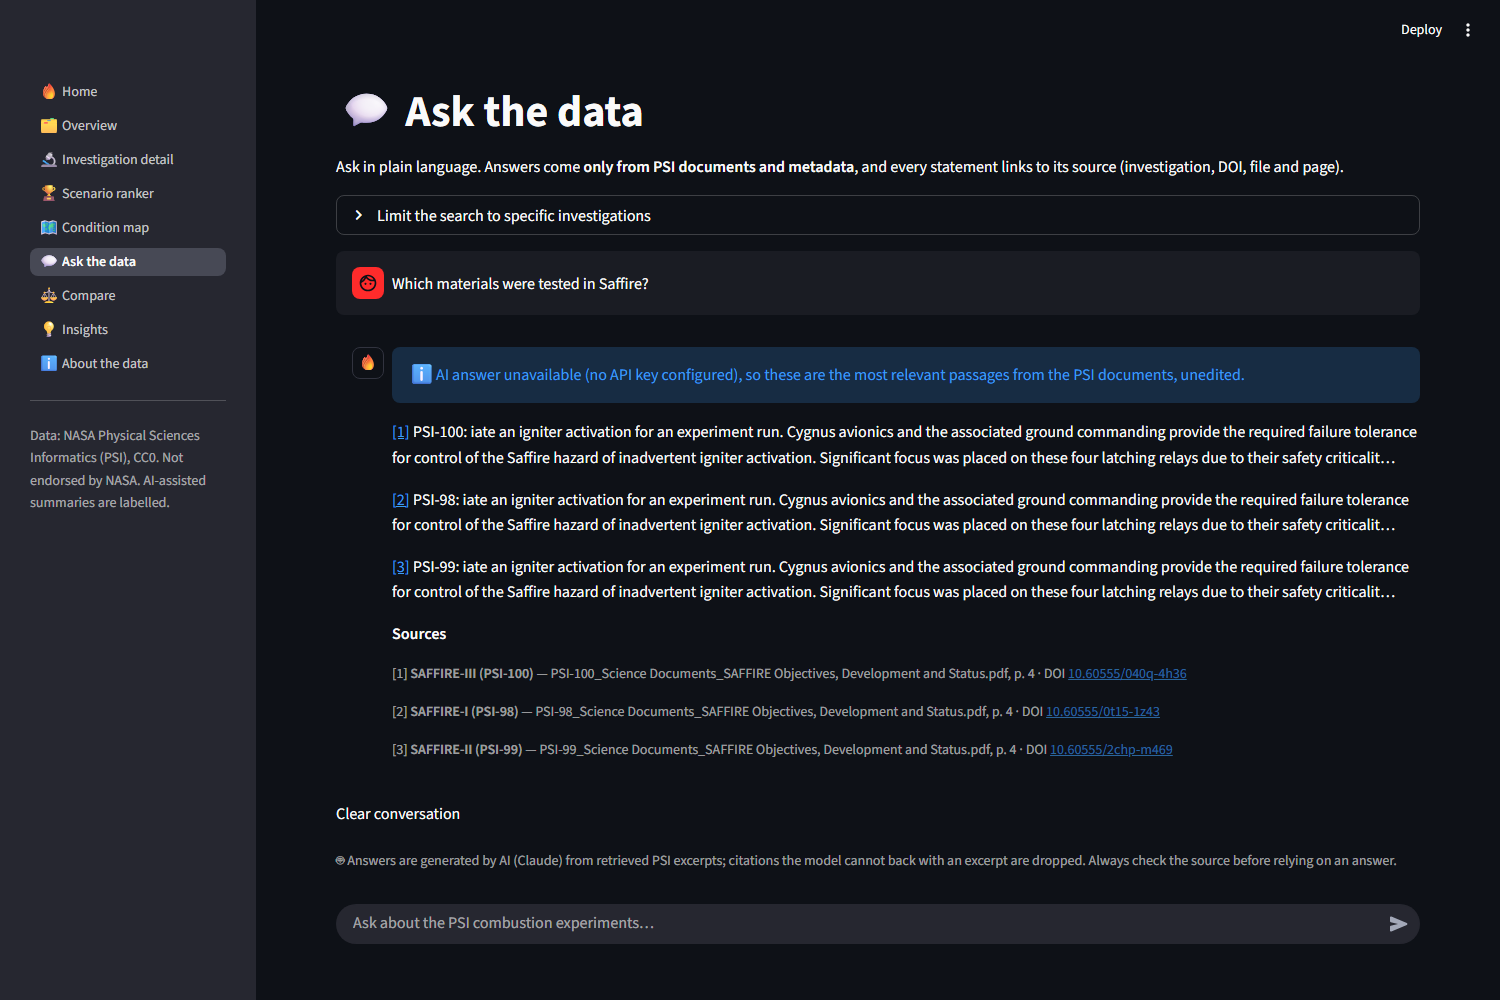
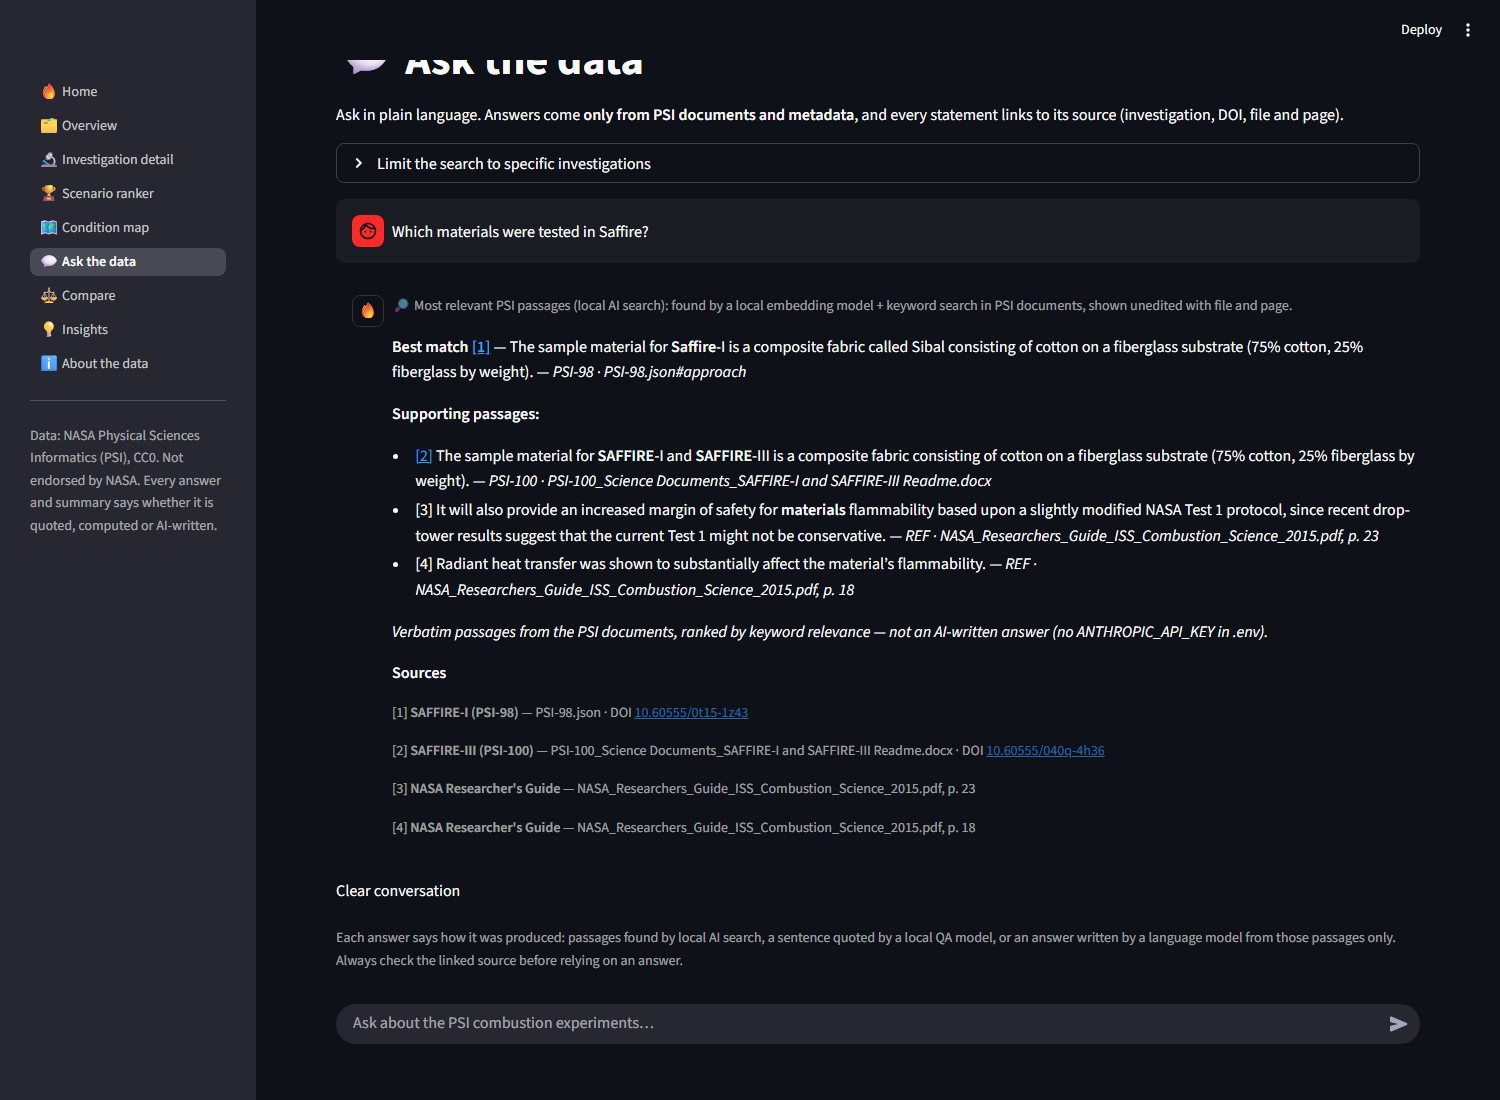
pc3: honest provenance labels on every AI-related text
- Ask: label per ask() mode (gemini / llm / extractive / no-llm) from data.ANSWER_LABELS;
  no-llm says 'Most relevant PSI passages (local AI search)', never 'generated'; the blue
  'AI answer unavailable' box and the fixed 'generated by AI (Claude)' footer are gone
- Detail / Compare: rule-built profiles (generated.by 'rules (no LLM)') are labelled
  'Summary from PSI metadata (quoted)'; only LLM-written profiles get an AI label
- Insights: caption from insights.json generated.by/how (rules -> computed + quoted)
- About disclosure and sidebar describe what actually runs
Tests: label for each mode, rule-based profile not labelled AI.

Closes #16

diff --git a/app/views/about.py b/app/views/about.py
@@ -78,14 +78,25 @@ if gaps:
 
 # ---------------------------------------------------------------- AI use
 st.subheader("How AI is used (disclosure)")
+_prof = data.profile("PSI-26")
+_summ = ("built by rules: the summary quotes the PSI objective/approach and the findings are sentences quoted "
+         "from PSI documents (no AI-written text)" if _prof and data.written_by_rules(_prof.get("generated"))
+         else "written by a language model from PSI documents and labelled as AI-written, with sources")
+_ins = data.insights()
+_ins_txt = ("computed from the PSI tables and backed by quoted sentences (no AI-written text)"
+            if isinstance(_ins, dict) and data.written_by_rules(_ins.get("generated"))
+            else "labelled with how they were produced")
 st.markdown(
-    "- **Scenario ranking** is a transparent weighted score computed from the data — no AI, fully reproducible.\n"
-    "- **Ask the data** retrieves passages from the PSI documents and metadata; a large language model "
-    "(Anthropic Claude) writes the answer only from those passages and must cite them. Citations it cannot "
-    "back with a retrieved passage are removed. Without an API key the page shows the passages themselves.\n"
-    "- **Investigation summaries and findings** (when present) are generated the same way, cached, and "
-    "labelled as AI-generated with their sources.\n"
+    "- **Scenario ranking** and the **condition map** are deterministic calculations on the PSI tables — "
+    "no AI, fully reproducible.\n"
+    "- **Ask the data** finds passages with local AI search (a sentence-embedding model + keyword search). "
+    "Depending on configuration, the answer is (a) the passages themselves, (b) a sentence quoted by a local "
+    "question-answering model, or (c) an answer written by a language model (Google Gemini free tier or "
+    "Anthropic Claude) only from those passages, with uncited claims removed. Each answer is labelled with "
+    "the mode that produced it; in mode (c) the question is sent to that provider.\n"
+    f"- **Investigation summaries and findings** are {_summ}.\n"
+    f"- **Insights** are {_ins_txt}.\n"
     "- The project code was written with help from AI coding assistants (Claude Code).\n\n"
-    "AI output can be wrong. Every AI statement links to its PSI source so it can be checked."
+    "Every statement links to its PSI source (investigation, DOI, file and page) so it can be checked."
 )
 st.caption("Built for NASA Space Apps Challenge 2026 — 'Flame in Freefall'.")

diff --git a/app/data.py b/app/data.py
@@ -134,6 +134,51 @@ def doc_stats() -> dict:
     return _doc_stats(_mtime(CHUNKS))
 
 
+# ---------------------------------------------------------------- provenance labels (#16)
+# Every text shown must say how it was produced. Never call something AI-written unless a
+# language model actually wrote it in this run.
+
+ANSWER_LABELS = {
+    "gemini": ("✨", "Answer generated by Google Gemini (free tier) only from the PSI passages below; "
+                     "uncited claims removed. Questions are sent to Google."),
+    "llm": ("✨", "Answer generated by Anthropic Claude only from the PSI passages below; "
+                  "uncited claims removed. Questions are sent to Anthropic."),
+    "extractive": ("🔎", "Answer quoted from a PSI document by a local QA model (no text generated)."),
+    "no-llm": ("🔎", "Most relevant PSI passages (local AI search): found by a local embedding model + keyword "
+                     "search in PSI documents, shown unedited with file and page."),
+}
+
+
+def answer_label(mode: str | None) -> tuple[str, str] | None:
+    """(icon, text) for an ask() result, or None for an unknown mode."""
+    return ANSWER_LABELS.get(mode or "")
+
+
+def written_by_rules(gen: dict | None) -> bool:
+    """True when a profile / insights file was built without a language model."""
+    by = ((gen or {}).get("by") or "").lower()
+    return "rule" in by or "no llm" in by
+
+
+def profile_label(prof: dict) -> str:
+    gen = prof.get("generated") or {}
+    if written_by_rules(gen):
+        return ("Summary from PSI metadata (quoted). Findings are sentences quoted from PSI documents, "
+                "picked by keyword rules — no AI-written text.")
+    model = gen.get("model") or gen.get("by") or "a language model"
+    return f"✨ Written by AI ({model}, {gen.get('date', '')}) from PSI documents — check the cited sources."
+
+
+def insights_label(raw: dict | list | None) -> str:
+    gen = raw.get("generated") if isinstance(raw, dict) else None
+    if written_by_rules(gen):
+        return ("Computed from the PSI tables and backed by sentences quoted from PSI documents "
+                "(no AI-written text). Each insight lists its sources.")
+    if gen and gen.get("how"):
+        return f"✨ {gen['how']}"
+    return "✨ Written with AI from PSI documents; check the cited sources."
+
+
 @st.cache_resource(show_spinner="Loading the document index…")
 def warmup() -> bool:
     """Load the retrieval index once per server process (see ai.retrieval.warmup)."""

diff --git a/app/tests/test_app_pages.py b/app/tests/test_app_pages.py
@@ -177,3 +177,33 @@ def test_loaders_reread_changed_files(tmp_path):
     f.write_text(json.dumps({"v": 2}), encoding="utf-8")
     os.utime(f, (f.stat().st_atime, f.stat().st_mtime + 5))   # make sure the mtime moves
     assert app_data._json_or_none(str(f), app_data._mtime(f)) == {"v": 2}
+
+
+@pytest.mark.parametrize("mode,must,must_not", [
+    ("no-llm", "local AI search", "generated"),
+    ("extractive", "local QA model", "generated by"),
+    ("gemini", "Google Gemini", "Claude"),
+    ("llm", "Anthropic Claude", "Gemini"),
+])
+def test_ask_label_follows_mode(monkeypatch, mode, must, must_not):
+    """#16: the provenance label depends on ask()'s mode; no-llm never claims generated text."""
+    import ai.qa
+    monkeypatch.setattr(ai.qa, "ask", lambda q, **kw: {
+        "answer": "Answer [1].", "mode": mode,
+        "citations": [{"psi_id": "PSI-26", "doi": "10.60555/58h4-dy80", "file": "documents/PSI-26/x.pdf", "page": 1}]})
+    at = AppTest.from_file(str(APP_DIR / "views/ask.py"), default_timeout=TIMEOUT)
+    at.query_params["q"] = "test question"
+    at.run()
+    assert not at.exception, at.exception
+    answer_captions = " ".join(c.value for c in at.caption[:-1])   # last caption is the page footer
+    assert must in answer_captions
+    assert must_not not in answer_captions
+
+
+def test_rule_based_profiles_not_labelled_ai():
+    at = AppTest.from_file(str(APP_DIR / "views/detail.py"), default_timeout=TIMEOUT)
+    at.query_params["id"] = "PSI-26"
+    at.run()
+    caps = " ".join(c.value for c in at.caption)
+    assert "AI-generated" not in caps and "Written by AI" not in caps
+    assert "Summary from PSI metadata" in caps

diff --git a/app/views/ask.py b/app/views/ask.py
@@ -36,10 +36,11 @@ def render_answer(res: dict) -> None:
             return f"[[{n}]]({citation_url(cits[n - 1])} \"{cits[n - 1].get('psi_id')}\")"
         return m.group(0)
 
-    if res.get("mode") == "no-llm":
-        text = re.sub(r"^\(AI answer unavailable[^)]*\)\s*", "", text)  # the info box below says it
-        st.info("AI answer unavailable (no API key configured), so these are the most relevant passages "
-                "from the PSI documents, unedited.", icon="ℹ")
+    # Provenance first: how this answer was produced depends on ask()'s mode (#16).
+    text = re.sub(r"^\((?:AI answer unavailable|No AI answer)[^)]*\)\s*", "", text)
+    lab = data.answer_label(res.get("mode"))
+    if lab:
+        st.caption(f"{lab[0]} {lab[1]}")
     st.markdown(re.sub(r"\[(\d+)\]", link, text))
     if cits:
         st.markdown("**Sources**")
@@ -97,5 +98,6 @@ if st.session_state.chat and st.button("Clear conversation", type="tertiary"):
     st.session_state.chat = []
     st.rerun()
 
-st.caption("🤖 Answers are generated by AI (Claude) from retrieved PSI excerpts; citations the model cannot "
-           "back with an excerpt are dropped. Always check the source before relying on an answer.")
+st.caption("Each answer says how it was produced: passages found by local AI search, a sentence quoted by a "
+           "local QA model, or an answer written by a language model from those passages only. Always check "
+           "the linked source before relying on an answer.")

diff --git a/app/views/detail.py b/app/views/detail.py
@@ -45,9 +45,7 @@ if prof:
     tab_plain, tab_expert = st.tabs(["Plain language", "Expert"])
     tab_plain.write(prof.get("summary_plain") or "—")
     tab_expert.write(prof.get("summary_expert") or "—")
-    gen = prof.get("generated") or {}
-    st.caption(f"🤖 AI-generated ({gen.get('model', 'Claude')}, {gen.get('date', '')}) from PSI documents — "
-               "check the cited sources.")
+    st.caption(data.profile_label(prof))
     if prof.get("key_findings"):
         st.markdown("**Key findings**")
         for n, f in enumerate(prof["key_findings"], 1):
@@ -60,7 +58,7 @@ if prof:
         st.markdown("**Fire-safety pillar:** " + ", ".join(prof["fire_safety_pillar"]))
 else:
     st.write(inv.get("objective") or "No objective on record.")
-    st.caption("Objective from PSI metadata. The AI summary appears here once it has been generated.")
+    st.caption("Objective from PSI metadata.")
 
 with st.expander("Hypothesis, approach and research impacts (PSI metadata)"):
     for key, title in (("objective", "Objective"), ("hypothesis", "Hypothesis"),

diff --git a/app/views/insights.py b/app/views/insights.py
@@ -53,11 +53,11 @@ def render_citations(cits) -> str:
 
 
 if not items:
-    st.info("AI insights are not available yet: they appear here once the AI layer generates "
+    st.info("Insights are not available yet: they appear here once the AI layer generates "
             "`processed/ai/insights.json`. Meanwhile, the data gaps below come straight from the data.",
             icon="⏳")
 else:
-    st.caption("🤖 Generated by AI (Claude) from PSI documents and the coverage analysis; check the cited sources.")
+    st.caption(data.insights_label(raw))
     tabs = st.tabs([t for _, t, _ in PILLARS] + (["Other"] if any(
         i.get("pillar") not in {p for p, *_ in PILLARS} for i in items) else []))
     for tab, (key, _, desc) in zip(tabs, PILLARS):

diff --git a/app/views/compare.py b/app/views/compare.py
@@ -76,7 +76,8 @@ for col, i in zip(cols, sel):
         prof = data.profile(i["id"])
         if prof and prof.get("summary_plain"):
             st.write(prof["summary_plain"])
-            st.caption("🤖 AI summary — see the detail page for sources.")
+            st.caption(("Summary from PSI metadata." if data.written_by_rules(prof.get("generated"))
+                        else "✨ AI-written summary") + " Sources on the detail page.")
         else:
             st.write((i.get("objective") or "No objective on record.")[:600])
             st.caption("Objective from PSI metadata.")

diff --git a/app/main.py b/app/main.py
@@ -35,5 +35,5 @@ nav = st.navigation(PAGES)
 warmup()
 with st.sidebar:
     st.caption("Data: NASA Physical Sciences Informatics (PSI), CC0. "
-               "Not endorsed by NASA. AI-assisted summaries are labelled.")
+               "Not endorsed by NASA. Every answer and summary says whether it is quoted, computed or AI-written.")
 nav.run()
